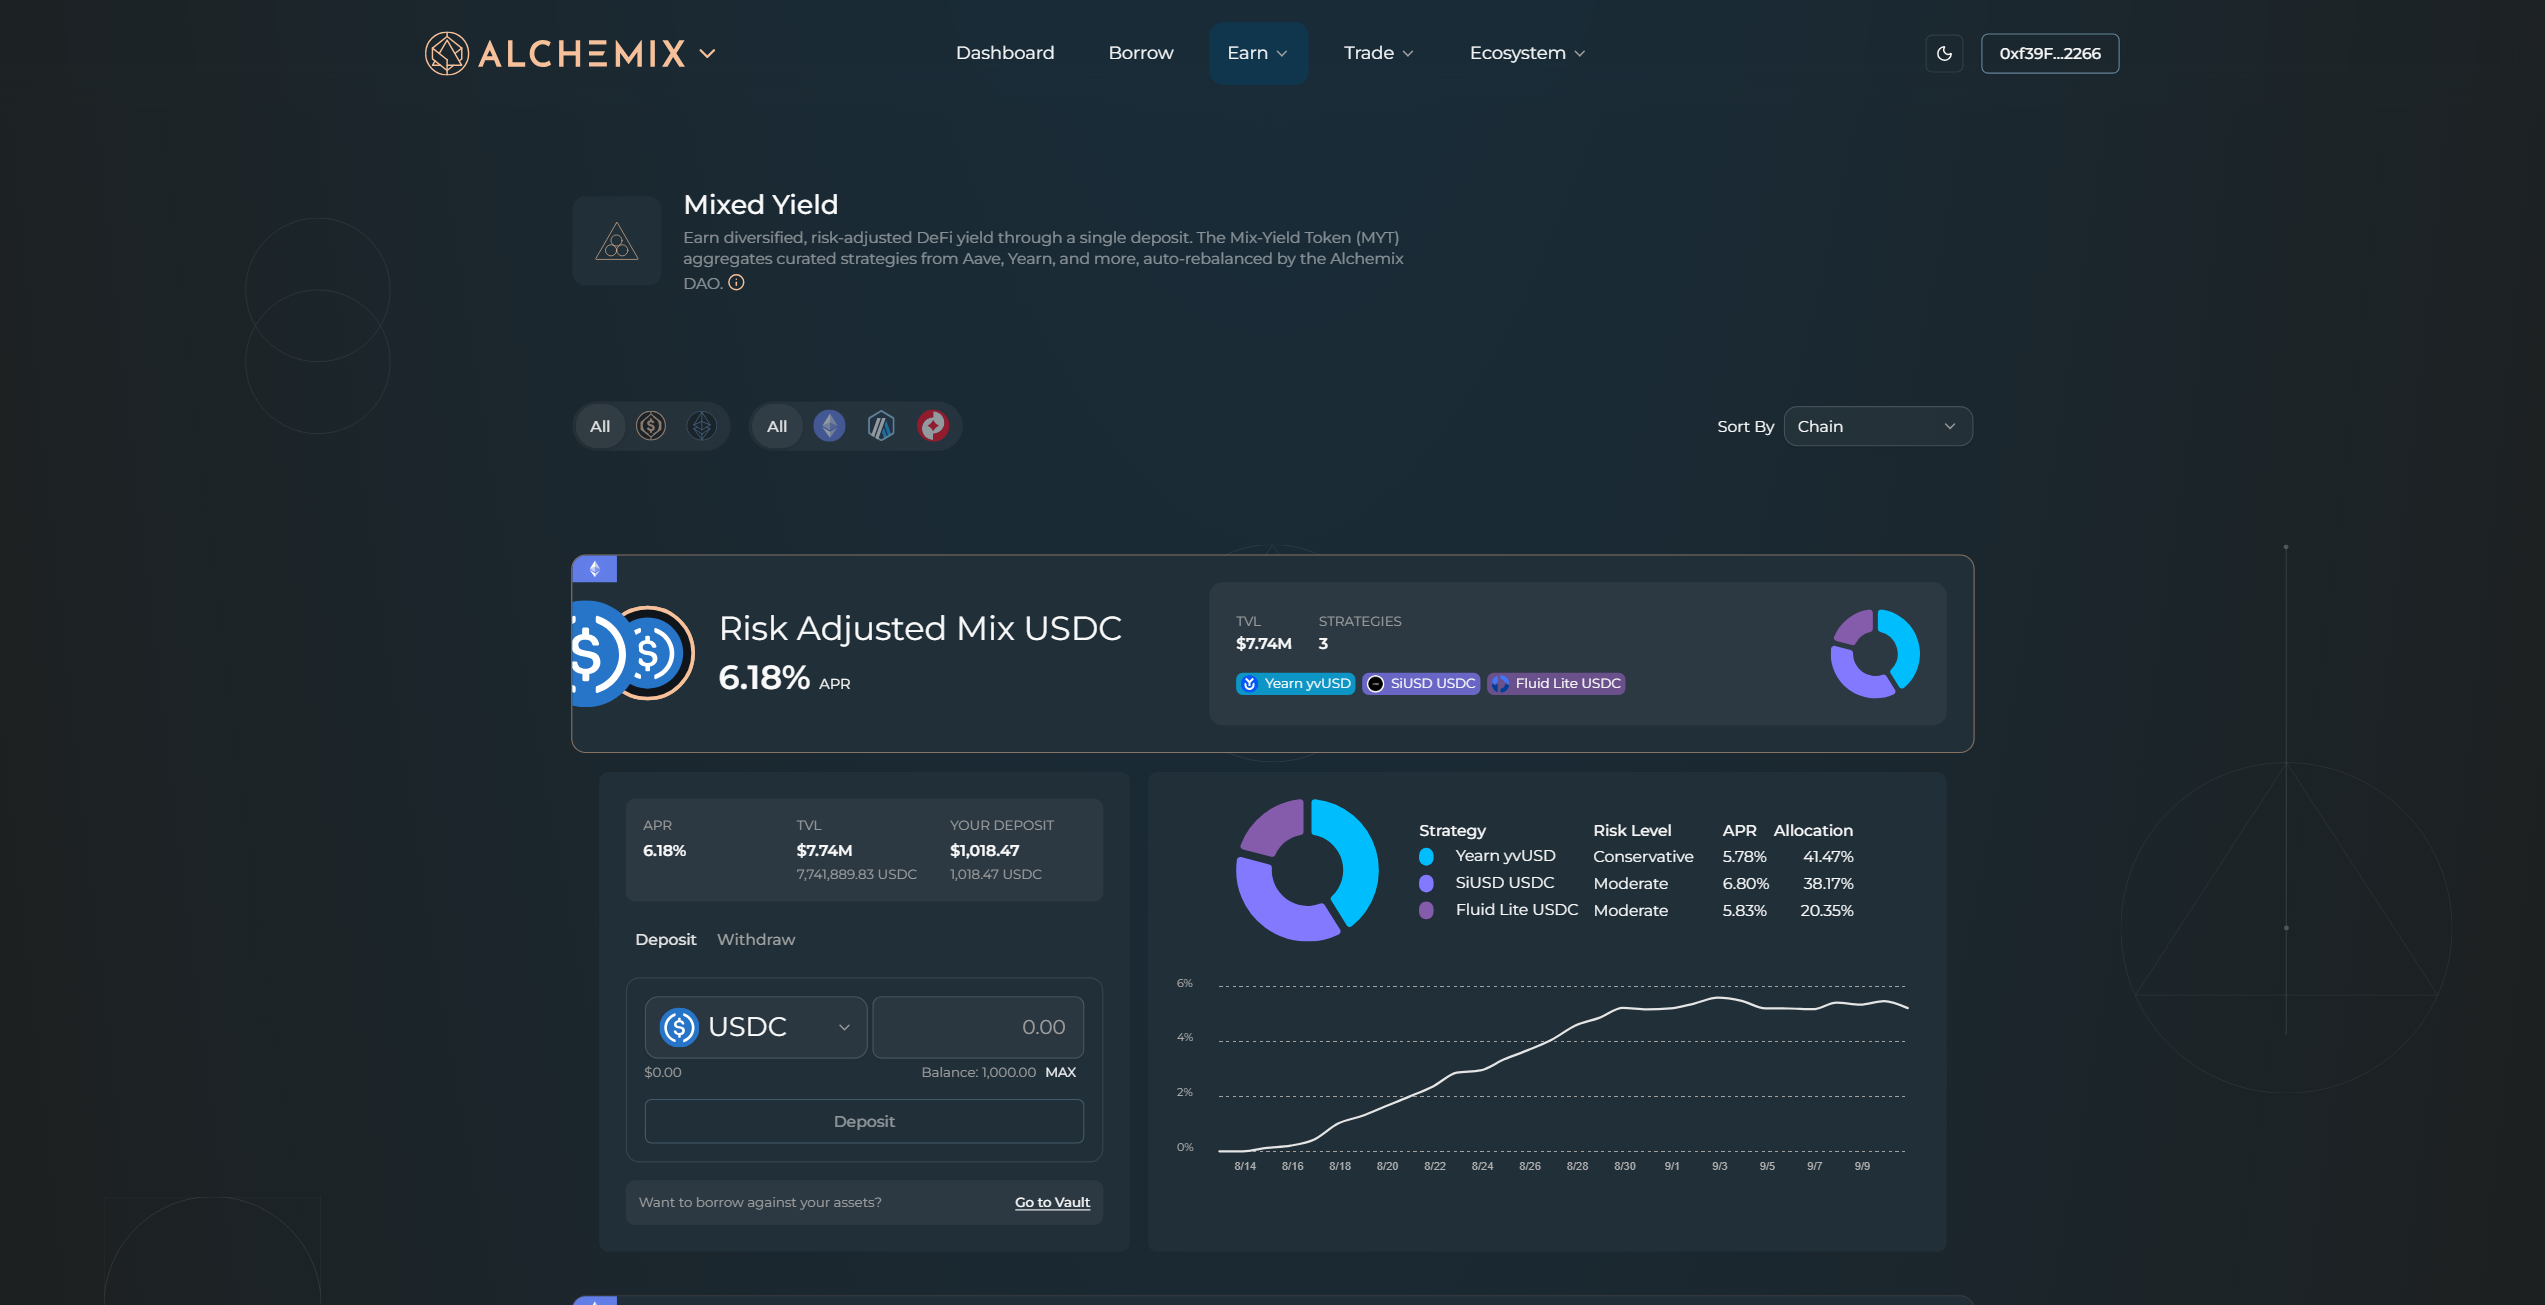
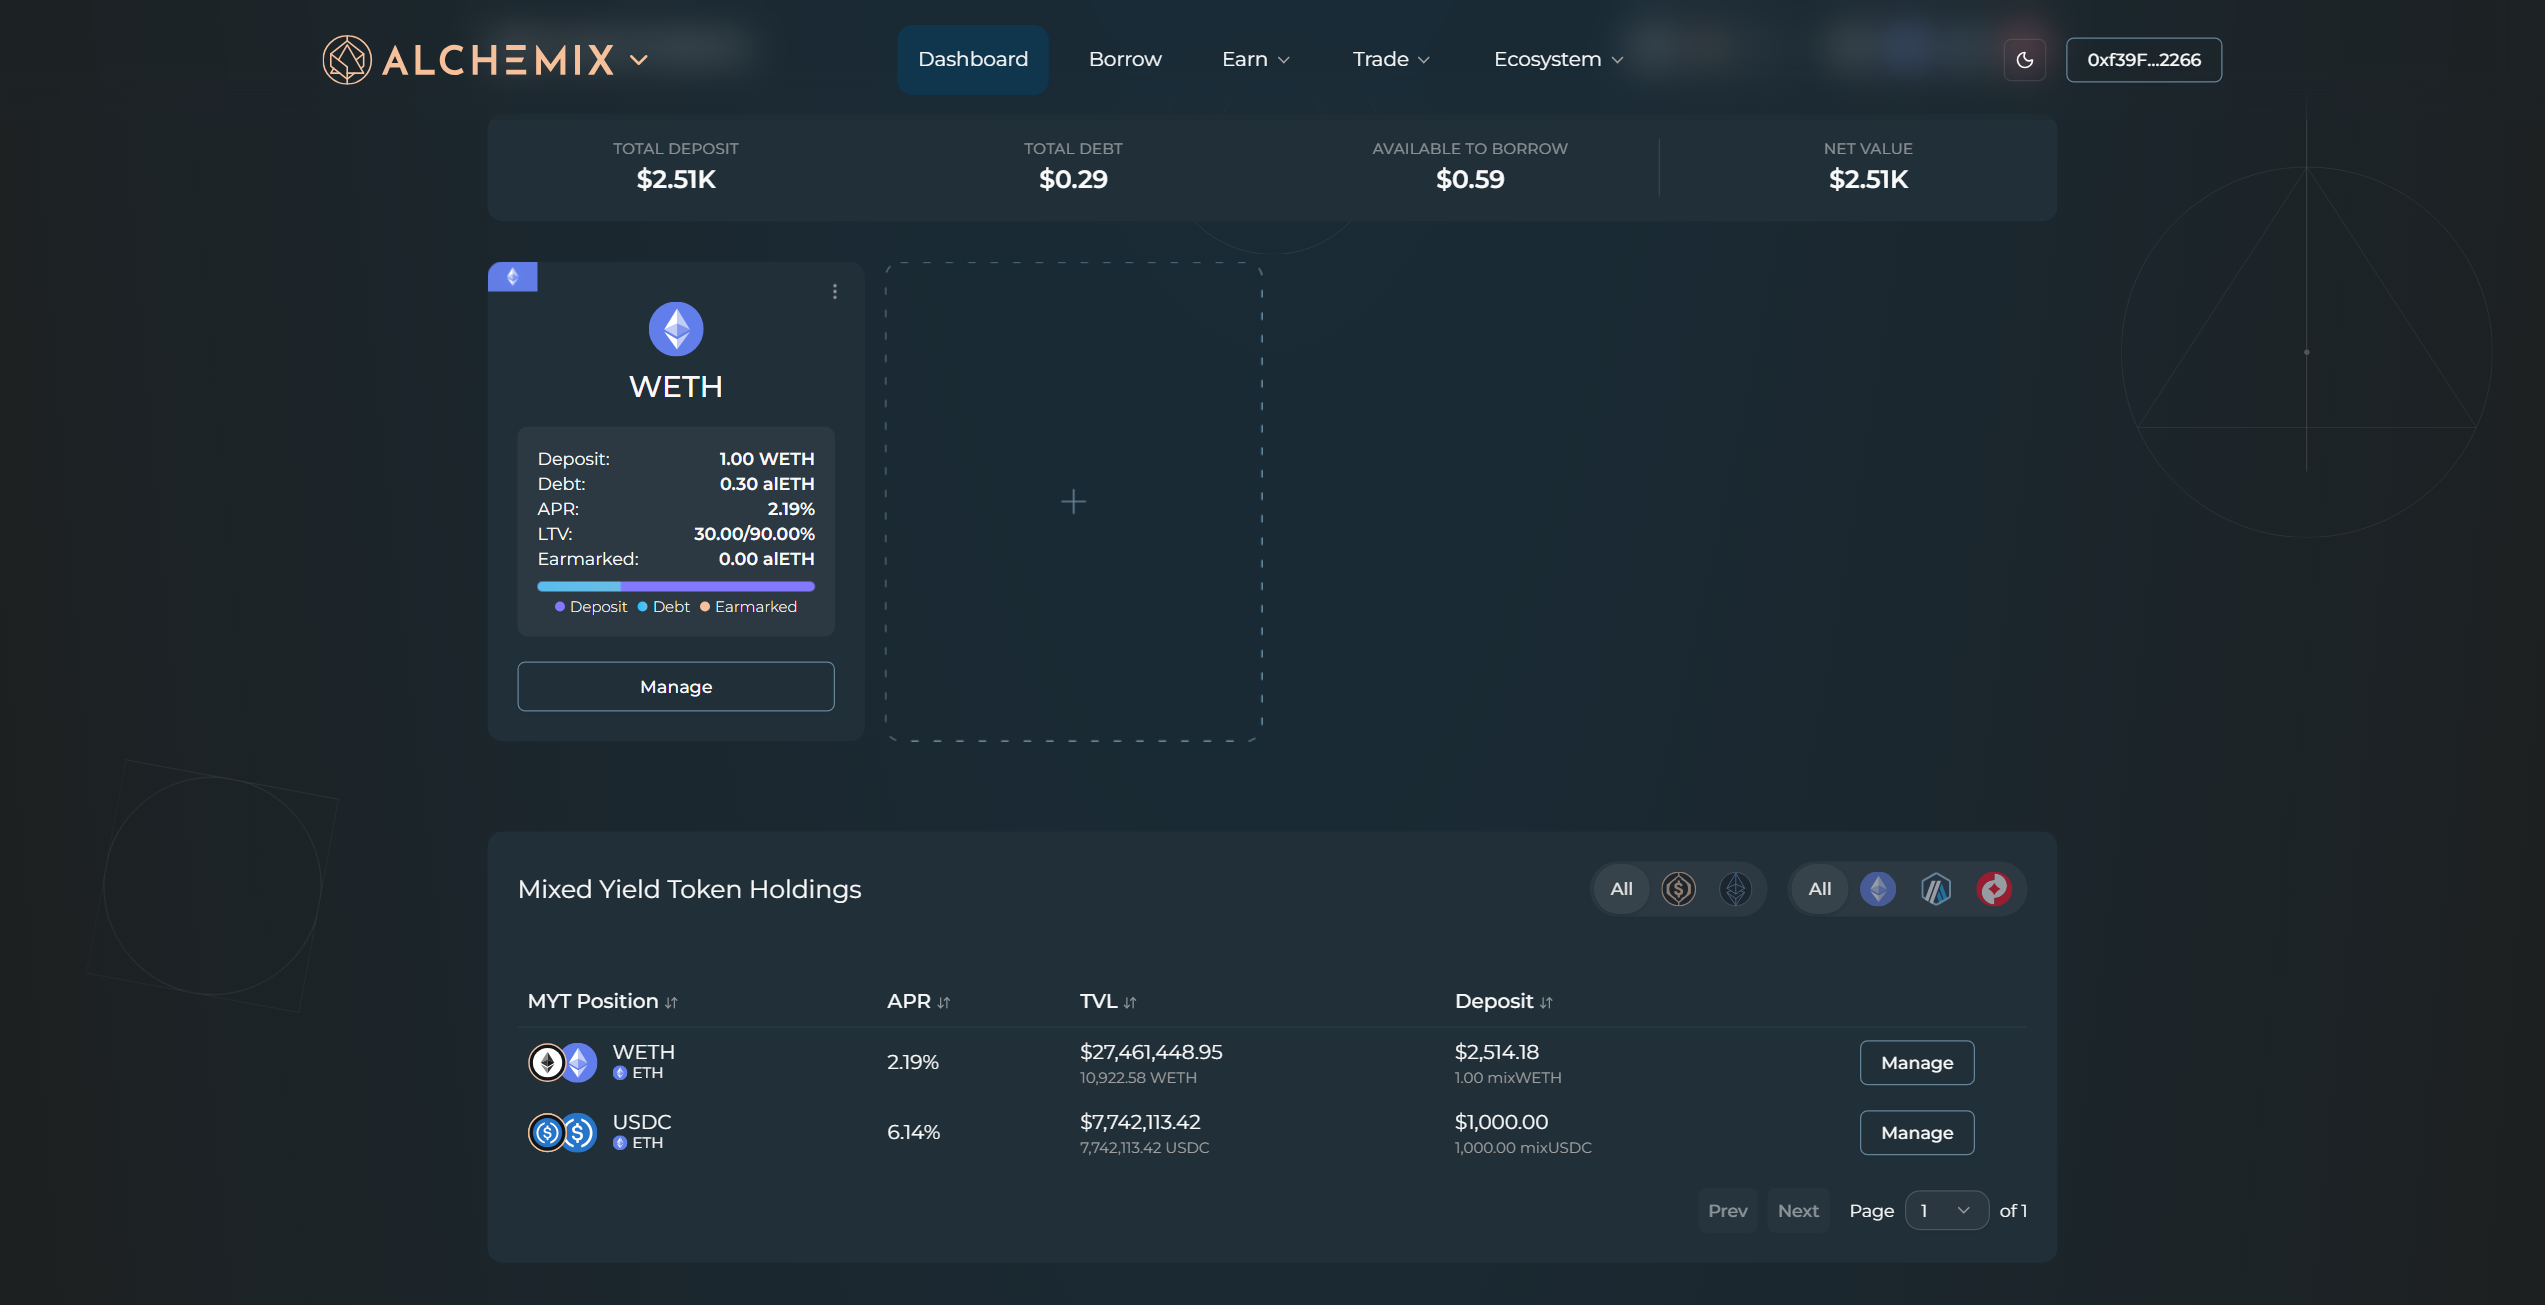
Minor UI accomodation

diff --git a/docs/user/tutorials/redeem-alassets.md b/docs/user/tutorials/redeem-alassets.md
@@ -60,21 +60,23 @@ Type how much of the selected asset you want to commit. The panel instantly show
 
 Click Deposit and approve the transaction in your wallet.
 
-### Manage or close a position
+### Manage or exit a position
 
 Go to the Dashboard and scroll to Open Fixed Yield Positions.
 
 <FramedImage src="/img/redeem-alassets-02.png" alt="Open Fixed Yield Positions" />
 
-| Function      | When to use                | Effect                                                                                                                                       |
-| ------------- | -------------------------- | -------------------------------------------------------------------------------------------------------------------------------------------- |
-| Close         | Term ended                 | Receive the underlying asset. The Transmuter pays out MYT, which the app unwraps in the same transaction.                                                                                                             |
-| Close (early) | Need funds before maturity | Receives a reduced amount, UI shows the penalty in advance. The penalty is a percentage set by the DAO, applying to untransmuted funds only. |
+Click **Claim** on the position you want to exit, which will have a different effect depending on if the position has fully matured:
 
-If the app returns MYT instead of the underlying asset, for example when unwrapping would incur slippage or the MYT vault lacks immediate liquidity, you can hold it and keep earning, or unwrap it later from the Mixed Yield page.
+| Term state          | Modal                          | Effect                                                                                                                                      |
+| ------------------- | ------------------------------ | ------------------------------------------------------------------------------------------------------------------------------------------- |
+| Matured             | Claim Transmuted Assets        | Receive the underlying asset. The Transmuter pays out MYT, which the app unwraps in the same transaction.                                    |
+| Still vesting       | Early Exit Transmuter Position | The button reads **Claim with Penalty**. You receive a reduced amount, and the modal shows the Early Claim Penalty in advance. The penalty is a percentage set by the DAO, applying to untransmuted funds only. |
+
+If the app returns MYT instead of the underlying asset, for example when unwrapping would incur slippage or the MYT vault lacks immediate liquidity, you can hold it and keep earning, or unwrap it later from the Mixed Yield page, under Earn → Variable Rate.
 
 ### Key points
 
-- The full displayed return is reached at maturity. Closing early pays the vested share at 1:1 and returns the rest as alAssets minus the exit fee.
+- The full displayed return is reached at maturity. Exiting early pays the vested share at 1:1 and returns the rest as alAssets minus the exit fee.
 
-- Early closure invokes the penalty shown in the UI.
+- An early exit invokes the penalty shown in the UI.

diff --git a/docs/user/quick-start.md b/docs/user/quick-start.md
@@ -26,7 +26,7 @@ Connect a wallet on the target chain and keep a small balance of the native gas 
 
 ### Step 1 – Deposit to the MYT
 
-<FramedImage src="/img/quick-start-01.png" alt="Deposit to MYT" />
+<FramedImage src="/img/quick-start-01.png" alt="Borrow page listing the available vaults" />
 
 Open **Borrow**, choose a Risk Adjusted Mix vault for ETH or USDC on your chain, and deposit. The vault mints MYT at a rate equivalent to your underlying assets. From here on out, each MYT represents a growing claim on the underlying as strategies earn.
 
@@ -35,7 +35,7 @@ Open **Borrow**, choose a Risk Adjusted Mix vault for ETH or USDC on your chain,
 <FramedImage src="/img/quick-start-02.png" alt="Borrow at 20% LTV" />
 
 :::tip Check the alAsset market price first
-alAssets can trade slightly below 1:1 on the open market. If alUSD trades at 0.99 USDC, selling 200 alUSD yields ~198 USDC, which is a ~$2 upfront cost relative to your 200 alUSD of recorded debt. The dApp shows the current price and estimated proceeds before you confirm.
+alAssets can trade slightly below 1:1 on the open market. If alUSD trades at 0.99 USDC, selling 200 alUSD yields ~198 USDC, which is a ~$2 upfront cost relative to your 200 alUSD of recorded debt. The Trade → Swap page shows the current price and estimated proceeds before you confirm.
 :::
 
 On the same vault page stay on Deposit/Borrow. Enter a borrow near 20% LTV, then mint [alETH or alUSD](./concepts/alAssets.md), respectively.
@@ -44,7 +44,7 @@ If you need spendable funds, swap the alAsset to USDC. The borrower fee shown in
 
 :::warning Before you confirm
 
-- **Strategy mix:** open the vault details to see the current MYT weight and ceilings for higher-risk buckets.
+- **Strategy mix:** open the vault's Info panel to see the strategies the MYT is deployed in, with each one's risk level and allocation.
 - **Health bar:** note the Liquidation LTV marker. Keep a wide buffer to reduce the need for active position management.
   :::
 

diff --git a/docs/user/tutorials/lending.md b/docs/user/tutorials/lending.md
@@ -11,7 +11,7 @@ import FramedImage from "@site/src/components/FramedImage";
 
 The Lending page lists third-party lending markets that Alchemix links to but does not operate. One is live today: the **Euler 4-way market**, covering WETH, USDC, alETH, and alUSD.
 
-Open it from the top navigation under **Ecosystem → Lending**, or go directly to [alchemix.fi/lending](https://alchemix.fi/lending), then click the card to expand it.
+Open it from the top navigation under **Ecosystem → Lending**, or go directly to [alchemix.fi/lending](https://alchemix.fi/lending).
 
 :::note Separate from the Ecosystem vaults
 Lending is its own page. Vaults curated by the Alchemix team, such as the Alchemix Ecosystem ETH vault, live under Ecosystem → Vaults and are covered in [Ecosystem Vaults →](./ecosystem-vaults.md).
@@ -51,7 +51,7 @@ Each row lists how much of that asset is supplied and borrowed across the market
 
 <FramedImage src="/img/lending-03.png" alt="Euler Lend panel and Borrow positions section" />
 
-In the Lend panel on the left, choose your asset, enter an amount or click MAX, and supply it to start earning. Your supplied balance and its current APY appear above the input. Switch to the Withdraw tab to pull supplied assets back out, subject to available liquidity in the market.
+Click **Supply** on the row for the asset you want to lend. That opens the Lend panel on the left. Choose your asset, enter an amount or click MAX, and supply it to start earning. Your supplied balance and its current APY appear above the input. Switch to the Withdraw tab to pull supplied assets back out, subject to available liquidity in the market.
 
 ### Step 4 – Borrow
 

diff --git a/docs/user/safety/security.md b/docs/user/safety/security.md
@@ -47,7 +47,7 @@ MYT access control and strategy contracts received dedicated reviews:
 
 #### Strategy audit coverage
 
-The table below maps every whitelisted MYT strategy to the audit that reviewed its adapter contract. Whitelisted means the strategy has passed review and is registered on the vault. It does not mean the strategy currently holds an allocation: weights change as the DAO rebalances, and the live composition of each MYT is shown in the [Mixed Yield tab](https://alchemix.fi/mixed-yield). Strategies that share an implementation are covered by the same report.
+The table below maps every whitelisted MYT strategy to the audit that reviewed its adapter contract. Whitelisted means the strategy has passed review and is registered on the vault. It does not mean the strategy currently holds an allocation: weights change as the DAO rebalances, and the live composition of each MYT is shown on the [Mixed Yield page](https://alchemix.fi/mixed-yield), under Earn → Variable Rate. Strategies that share an implementation are covered by the same report.
 
 | Strategy (provider)    | Whitelisted on                        | Reviewed by                             |
 | :--------------------- | :------------------------------------ | :-------------------------------------- |

diff --git a/docs/user/tutorials/use-passive-myt.md b/docs/user/tutorials/use-passive-myt.md
@@ -29,7 +29,7 @@ Open Earn in the top navigation and choose Variable Rate, or go directly to [alc
 
 <FramedImage src="/img/use-passive-myt-02.png" alt="Mixed Yield list" />
 
-Use the asset filters (USDC or ETH) and chain filters to narrow the list. Sort by Highest APR to surface the best current rates. Click any card to expand it.
+Use the asset filters (alUSD or alETH) and chain filters to narrow the list. Sort by Highest APR to surface the best current rates. Click any card to expand it.
 
 ### Step 3 – Review strategy allocation
 
@@ -47,7 +47,7 @@ Click Deposit. Your wallet shows the network, gas estimate, and amounts. Approve
 
 ### Step 6 – Track your deposit
 
-<FramedImage src="/img/use-passive-myt-04.png" alt="Active MYT deposit" />
+<FramedImage src="/img/use-passive-myt-04.png" alt="Dashboard showing Mixed Yield Token Holdings" />
 
 Return to the Dashboard and find your position under Mixed Yield Token Holdings. This is the primary view for monitoring balances across all your MYT deposits. As yield accrues the redemption value of each MYT increases automatically.
 

diff --git a/docs/user/faq.md b/docs/user/faq.md
@@ -118,7 +118,7 @@ Most of the time, the cost and reward cancel out, so the net effect is similar t
 
 Yes, but an early exit applies a penalty that reduces your return. The pop-up shows the exact amount before you confirm.
 
-[Learn more about early exits →](./tutorials/redeem-alassets.md#manage-or-close-a-position)
+[Learn more about early exits →](./tutorials/redeem-alassets.md#manage-or-exit-a-position)
 
 </details>
 
@@ -189,7 +189,7 @@ Yes. Alchemix V3 underwent its most comprehensive audit suite to date (Spearbit/
   Where can I see live data?
 </summary>
 
-Current redemption rate, queued alAssets, vault APRs, and historic term stats are displayed directly in the main dashboard and the Fixed Yield page.
+Vault APRs appear on the Borrow page and on your Dashboard. A vault's current redemption rate and earmarked balance sit at the top of that vault's own page, with fuller detail under its Earmarking and Redemptions tabs. Fixed-rate terms and their projected APRs are on the Fixed Yield page.
 
 [View live data →](https://alchemix.fi/)
 

diff --git a/docs/user/concepts/myt-and-yield.md b/docs/user/concepts/myt-and-yield.md
@@ -86,7 +86,7 @@ flowchart LR
 There is one ETH-denominated and one USDC-denominated MYT on every supported chain (on Mainnet these are branded **mixETH** and **mixUSD**). The strategies inside each MYT differ by chain, and the DAO can revote strategy weights at any time.
 
 :::info Compositions change, verify in the app
-The exact strategies, weights, and allocations inside each MYT are a point-in-time configuration. Always check the live composition, risk tiers, and allocations [in the Mixed Yield tab →](https://alchemix.fi/mixed-yield)
+The exact strategies, weights, and allocations inside each MYT are a point-in-time configuration. Always check the live composition, risk tiers, and allocations [on the Mixed Yield page →](https://alchemix.fi/mixed-yield), under Earn → Variable Rate
 :::
 
 ### How strategies are classified

diff --git a/docs/user/tutorials/borrowing-in-alchemix.md b/docs/user/tutorials/borrowing-in-alchemix.md
@@ -26,7 +26,7 @@ You can manually repay part or all of your debt at any time to unlock your colla
 
 ### Step 1 – Open the vault
 
-<FramedImage src="/img/borrowing-in-alchemix-01.png" alt="Vault detail page" />
+<FramedImage src="/img/borrowing-in-alchemix-01.png" alt="Borrow page listing the available vaults" />
 
 Click Borrow in the top navigation, then click the vault you want to borrow against.
 
@@ -46,7 +46,7 @@ Alchemix does not use price-based liquidations. Liquidation risk comes from a yi
 
 ### Step 4 – Enter a borrow amount
 
-Type the alAsset amount you want to borrow, or click Max to borrow the maximum within the current LTV limit.
+Type the alAsset amount you want to borrow, or click MAX to borrow the maximum within the current LTV limit.
 
 ### Step 5 – Confirm
 

diff --git a/docs/user/tutorials/ecosystem-vaults.md b/docs/user/tutorials/ecosystem-vaults.md
@@ -51,4 +51,4 @@ Stay on the Deposit tab. Enter the amount of WETH you want to deposit, or click 
 
 ### Step 4 – Withdraw
 
-Switch to the Withdraw tab when you want to exit. Claim your vault shares first, then submit the withdrawal. Withdrawals are batched and processed on the fortnightly cycle, so the funds return to your wallet once the next processing window completes.
+Switch to the Withdraw tab when you want to exit. Claim your vault shares first, then click **Request Withdraw**. Withdrawals are batched and processed on the fortnightly cycle, so the funds return to your wallet once the next processing window completes.

diff --git a/docs/user/tutorials/repay-loan.md b/docs/user/tutorials/repay-loan.md
@@ -57,7 +57,7 @@ You can often buy alUSD or alETH on secondary markets (like Curve) for slightly 
 
 ### Step 3 – Enter the amount
 
-Type the number of tokens you want to use to repay debt. The “Max” function will attempt to use your entire wallet balance, or the remainder of the debt balance, whichever is lower.
+Type the number of tokens you want to use to repay debt. MAX will attempt to use your entire wallet balance, or the remainder of the debt balance, whichever is lower.
 
 ### Step 4 – Send the transaction
 

diff --git a/docs/user/tutorials/withdraw.md b/docs/user/tutorials/withdraw.md
@@ -24,9 +24,9 @@ You can withdraw collateral from Alchemix at any time.
 
 ### Step 1 – Open the vault
 
-<FramedImage src="/img/withdraw-01.png" alt="Vault detail page" />
+<FramedImage src="/img/withdraw-01.png" alt="Dashboard showing open vault positions" />
 
-Click Dashboard in the top navigation, then click the vault you want to withdraw from.
+Click Dashboard in the top navigation, then click **Manage** on the vault position you want to withdraw from.
 
 ### Step 2 – Open the Withdraw tab
 
